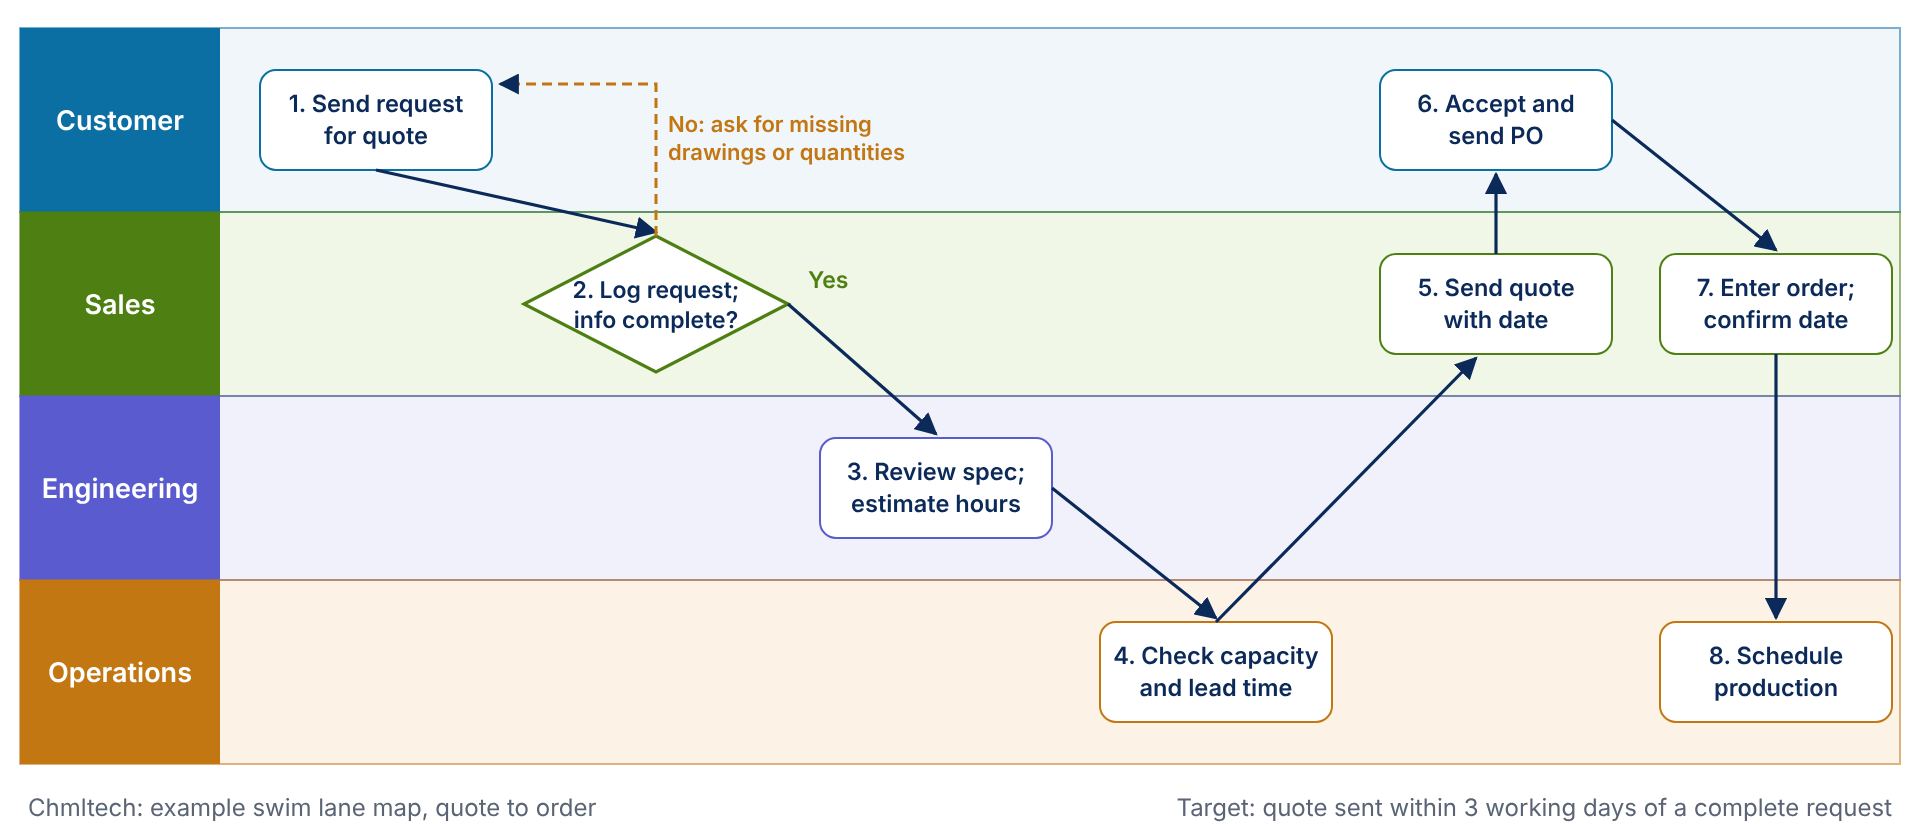
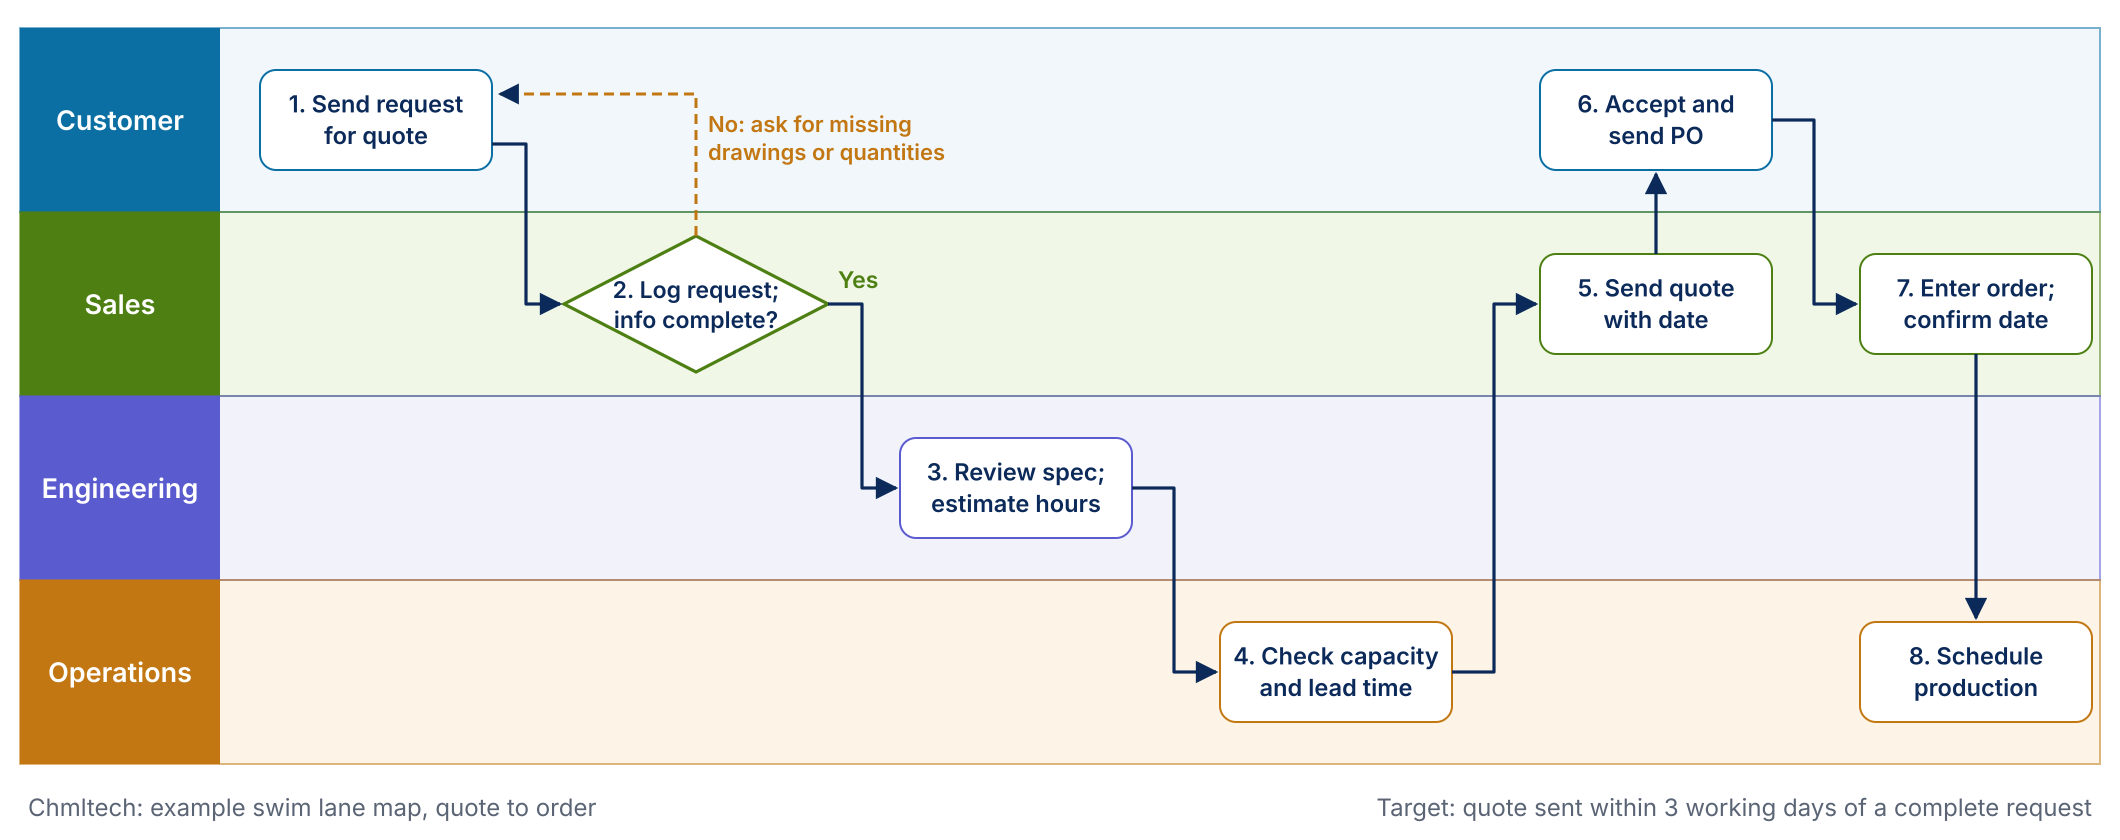
V5.24: swim lane connectors redrawn as right-angle lines (process documentation article)
Each hand-off leaves the right face of one step and enters the left face of the next.
PNG download redrawn to match.

Claude-Session: https://claude.ai/code/session_0128tT5EhY8XGTqWq2ggEHuj

diff --git a/post/essentials-of-effective-process-documentation.html b/post/essentials-of-effective-process-documentation.html
@@ -73,7 +73,7 @@
 <h2>Start with a swim lane map</h2>
 <p>A swim lane map shows each role in its own horizontal lane, so the hand-offs, where most delays and errors happen, are easy to see. The example below is a quote-to-order process in a small engineering or fabrication business.</p>
 <figure>
-<div style="overflow-x:auto"><svg role="img" aria-label="Swim lane map of a quote-to-order process with four lanes: customer, sales, engineering and operations. 1, the customer sends a request for quote. 2, sales logs it and checks whether the information is complete; if not, sales asks the customer for missing drawings or quantities. 3, engineering reviews the specification and estimates hours. 4, operations checks capacity and lead time. 5, sales sends the quote with a date. 6, the customer accepts and sends a purchase order. 7, sales enters the order and confirms the date. 8, operations schedules production. Target: quote sent within 3 working days of a complete request." viewBox="0 0 960 420" style="width:100%;height:auto;display:block;min-width:640px" xmlns="http://www.w3.org/2000/svg" font-family="Inter,system-ui,sans-serif" font-size="13"><defs><marker id="ah" viewBox="0 0 10 10" refX="9" refY="5" markerWidth="7" markerHeight="7" orient="auto-start-reverse"><path d="M0,0 L10,5 L0,10 z" fill="#0B2A5A"/></marker></defs><rect x="10" y="14" width="940" height="92" fill="#E6F0F7" opacity=".55" stroke="#0B6FA4"/><rect x="10" y="14" width="100" height="92" fill="#0B6FA4"/><text x="60.0" y="65.0" text-anchor="middle" font-size="13.5" fill="#fff" font-weight="600">Customer</text><rect x="10" y="106" width="940" height="92" fill="#E4F1D3" opacity=".55" stroke="#4D7F12"/><rect x="10" y="106" width="100" height="92" fill="#4D7F12"/><text x="60.0" y="157.0" text-anchor="middle" font-size="13.5" fill="#fff" font-weight="600">Sales</text><rect x="10" y="198" width="940" height="92" fill="#E7E7F8" opacity=".55" stroke="#5B5BD0"/><rect x="10" y="198" width="100" height="92" fill="#5B5BD0"/><text x="60.0" y="249.0" text-anchor="middle" font-size="13.5" fill="#fff" font-weight="600">Engineering</text><rect x="10" y="290" width="940" height="92" fill="#FBEBD3" opacity=".55" stroke="#C27712"/><rect x="10" y="290" width="100" height="92" fill="#C27712"/><text x="60.0" y="341.0" text-anchor="middle" font-size="13.5" fill="#fff" font-weight="600">Operations</text><rect x="130" y="35.0" width="116" height="50" rx="8" fill="#fff" stroke="#0B6FA4"/><text x="188.0" y="56.2" text-anchor="middle" font-size="11.8" fill="#0B2A5A" font-weight="600">1. Send request</text><text x="188.0" y="72.0" text-anchor="middle" font-size="11.8" fill="#0B2A5A" font-weight="600">for quote</text><polygon points="328.0,118.0 394.0,152.0 328.0,186.0 262.0,152.0" fill="#fff" stroke="#4D7F12" stroke-width="1.6"/><text x="328.0" y="149.0" text-anchor="middle" font-size="11.5" fill="#0B2A5A" font-weight="600">2. Log request;</text><text x="328.0" y="164.0" text-anchor="middle" font-size="11.5" fill="#0B2A5A" font-weight="600">info complete?</text><rect x="410" y="219.0" width="116" height="50" rx="8" fill="#fff" stroke="#5B5BD0"/><text x="468.0" y="240.2" text-anchor="middle" font-size="11.8" fill="#0B2A5A" font-weight="600">3. Review spec;</text><text x="468.0" y="256.0" text-anchor="middle" font-size="11.8" fill="#0B2A5A" font-weight="600">estimate hours</text><rect x="550" y="311.0" width="116" height="50" rx="8" fill="#fff" stroke="#C27712"/><text x="608.0" y="332.2" text-anchor="middle" font-size="11.8" fill="#0B2A5A" font-weight="600">4. Check capacity</text><text x="608.0" y="348.0" text-anchor="middle" font-size="11.8" fill="#0B2A5A" font-weight="600">and lead time</text><rect x="690" y="127.0" width="116" height="50" rx="8" fill="#fff" stroke="#4D7F12"/><text x="748.0" y="148.2" text-anchor="middle" font-size="11.8" fill="#0B2A5A" font-weight="600">5. Send quote</text><text x="748.0" y="164.0" text-anchor="middle" font-size="11.8" fill="#0B2A5A" font-weight="600">with date</text><rect x="690" y="35.0" width="116" height="50" rx="8" fill="#fff" stroke="#0B6FA4"/><text x="748.0" y="56.2" text-anchor="middle" font-size="11.8" fill="#0B2A5A" font-weight="600">6. Accept and</text><text x="748.0" y="72.0" text-anchor="middle" font-size="11.8" fill="#0B2A5A" font-weight="600">send PO</text><rect x="830" y="127.0" width="116" height="50" rx="8" fill="#fff" stroke="#4D7F12"/><text x="888.0" y="148.2" text-anchor="middle" font-size="11.8" fill="#0B2A5A" font-weight="600">7. Enter order;</text><text x="888.0" y="164.0" text-anchor="middle" font-size="11.8" fill="#0B2A5A" font-weight="600">confirm date</text><rect x="830" y="311.0" width="116" height="50" rx="8" fill="#fff" stroke="#C27712"/><text x="888.0" y="332.2" text-anchor="middle" font-size="11.8" fill="#0B2A5A" font-weight="600">8. Schedule</text><text x="888.0" y="348.0" text-anchor="middle" font-size="11.8" fill="#0B2A5A" font-weight="600">production</text><line x1="188.0" y1="85.0" x2="328.0" y2="116.0" stroke="#0B2A5A" stroke-width="1.6" marker-end="url(#ah)"/><line x1="394.0" y1="152.0" x2="468.0" y2="217.0" stroke="#0B2A5A" stroke-width="1.6" marker-end="url(#ah)"/><text x="404.0" y="144.0" text-anchor="start" font-size="11.5" fill="#4D7F12" font-weight="600">Yes</text><path d="M328.0,118.0 L328.0,42.0 L250,42.0" fill="none" stroke="#C27712" stroke-width="1.5" stroke-dasharray="5 3" marker-end="url(#ah)"/><text x="334.0" y="66.0" text-anchor="start" font-size="11" fill="#C27712" font-weight="600">No: ask for missing</text><text x="334.0" y="80.0" text-anchor="start" font-size="11" fill="#C27712" font-weight="600">drawings or quantities</text><line x1="526" y1="244.0" x2="608.0" y2="309.0" stroke="#0B2A5A" stroke-width="1.6" marker-end="url(#ah)"/><line x1="608.0" y1="311.0" x2="738.0" y2="179.0" stroke="#0B2A5A" stroke-width="1.6" marker-end="url(#ah)"/><line x1="748.0" y1="127.0" x2="748.0" y2="87.0" stroke="#0B2A5A" stroke-width="1.6" marker-end="url(#ah)"/><line x1="806" y1="60.0" x2="888.0" y2="125.0" stroke="#0B2A5A" stroke-width="1.6" marker-end="url(#ah)"/><line x1="888.0" y1="177.0" x2="888.0" y2="309.0" stroke="#0B2A5A" stroke-width="1.6" marker-end="url(#ah)"/><text x="946" y="408" text-anchor="end" font-size="12" fill="#5A6475">Target: quote sent within 3 working days of a complete request</text></svg></div>
+<div style="overflow-x:auto"><svg role="img" aria-label="Swim lane map of a quote-to-order process with four lanes: customer, sales, engineering and operations. 1, the customer sends a request for quote. 2, sales logs it and checks whether the information is complete; if not, sales asks the customer for missing drawings or quantities. 3, engineering reviews the specification and estimates hours. 4, operations checks capacity and lead time. 5, sales sends the quote with a date. 6, the customer accepts and sends a purchase order. 7, sales enters the order and confirms the date. 8, operations schedules production. Target: quote sent within 3 working days of a complete request." viewBox="0 0 1060 420" style="width:100%;height:auto;display:block;min-width:640px" xmlns="http://www.w3.org/2000/svg" font-family="Inter,system-ui,sans-serif" font-size="13"><defs><marker id="ah" viewBox="0 0 10 10" refX="9" refY="5" markerWidth="7" markerHeight="7" orient="auto-start-reverse"><path d="M0,0 L10,5 L0,10 z" fill="#0B2A5A"/></marker></defs><rect x="10" y="14" width="1040" height="92" fill="#E6F0F7" opacity=".55" stroke="#0B6FA4"/><rect x="10" y="14" width="100" height="92" fill="#0B6FA4"/><text x="60.0" y="65.0" text-anchor="middle" font-size="13.5" fill="#fff" font-weight="600">Customer</text><rect x="10" y="106" width="1040" height="92" fill="#E4F1D3" opacity=".55" stroke="#4D7F12"/><rect x="10" y="106" width="100" height="92" fill="#4D7F12"/><text x="60.0" y="157.0" text-anchor="middle" font-size="13.5" fill="#fff" font-weight="600">Sales</text><rect x="10" y="198" width="1040" height="92" fill="#E7E7F8" opacity=".55" stroke="#5B5BD0"/><rect x="10" y="198" width="100" height="92" fill="#5B5BD0"/><text x="60.0" y="249.0" text-anchor="middle" font-size="13.5" fill="#fff" font-weight="600">Engineering</text><rect x="10" y="290" width="1040" height="92" fill="#FBEBD3" opacity=".55" stroke="#C27712"/><rect x="10" y="290" width="100" height="92" fill="#C27712"/><text x="60.0" y="341.0" text-anchor="middle" font-size="13.5" fill="#fff" font-weight="600">Operations</text><rect x="130" y="35.0" width="116" height="50" rx="8" fill="#fff" stroke="#0B6FA4"/><text x="188.0" y="56.2" text-anchor="middle" font-size="11.8" fill="#0B2A5A" font-weight="600">1. Send request</text><text x="188.0" y="72.0" text-anchor="middle" font-size="11.8" fill="#0B2A5A" font-weight="600">for quote</text><polygon points="348.0,118.0 414.0,152.0 348.0,186.0 282.0,152.0" fill="#fff" stroke="#4D7F12" stroke-width="1.6"/><text x="348.0" y="149.0" text-anchor="middle" font-size="11.5" fill="#0B2A5A" font-weight="600">2. Log request;</text><text x="348.0" y="164.0" text-anchor="middle" font-size="11.5" fill="#0B2A5A" font-weight="600">info complete?</text><rect x="450" y="219.0" width="116" height="50" rx="8" fill="#fff" stroke="#5B5BD0"/><text x="508.0" y="240.2" text-anchor="middle" font-size="11.8" fill="#0B2A5A" font-weight="600">3. Review spec;</text><text x="508.0" y="256.0" text-anchor="middle" font-size="11.8" fill="#0B2A5A" font-weight="600">estimate hours</text><rect x="610" y="311.0" width="116" height="50" rx="8" fill="#fff" stroke="#C27712"/><text x="668.0" y="332.2" text-anchor="middle" font-size="11.8" fill="#0B2A5A" font-weight="600">4. Check capacity</text><text x="668.0" y="348.0" text-anchor="middle" font-size="11.8" fill="#0B2A5A" font-weight="600">and lead time</text><rect x="770" y="127.0" width="116" height="50" rx="8" fill="#fff" stroke="#4D7F12"/><text x="828.0" y="148.2" text-anchor="middle" font-size="11.8" fill="#0B2A5A" font-weight="600">5. Send quote</text><text x="828.0" y="164.0" text-anchor="middle" font-size="11.8" fill="#0B2A5A" font-weight="600">with date</text><rect x="770" y="35.0" width="116" height="50" rx="8" fill="#fff" stroke="#0B6FA4"/><text x="828.0" y="56.2" text-anchor="middle" font-size="11.8" fill="#0B2A5A" font-weight="600">6. Accept and</text><text x="828.0" y="72.0" text-anchor="middle" font-size="11.8" fill="#0B2A5A" font-weight="600">send PO</text><rect x="930" y="127.0" width="116" height="50" rx="8" fill="#fff" stroke="#4D7F12"/><text x="988.0" y="148.2" text-anchor="middle" font-size="11.8" fill="#0B2A5A" font-weight="600">7. Enter order;</text><text x="988.0" y="164.0" text-anchor="middle" font-size="11.8" fill="#0B2A5A" font-weight="600">confirm date</text><rect x="930" y="311.0" width="116" height="50" rx="8" fill="#fff" stroke="#C27712"/><text x="988.0" y="332.2" text-anchor="middle" font-size="11.8" fill="#0B2A5A" font-weight="600">8. Schedule</text><text x="988.0" y="348.0" text-anchor="middle" font-size="11.8" fill="#0B2A5A" font-weight="600">production</text><path d="M246,72.0 H263.0 V152.0 H280.0" fill="none" stroke="#0B2A5A" stroke-width="1.6" stroke-linejoin="round" marker-end="url(#ah)"/><path d="M414.0,152.0 H431.0 V244.0 H448" fill="none" stroke="#0B2A5A" stroke-width="1.6" stroke-linejoin="round" marker-end="url(#ah)"/><text x="419.0" y="144.0" text-anchor="start" font-size="11.5" fill="#4D7F12" font-weight="600">Yes</text><path d="M348.0,118.0 L348.0,47.0 L250,47.0" fill="none" stroke="#C27712" stroke-width="1.5" stroke-dasharray="5 3" marker-end="url(#ah)"/><text x="354.0" y="66.0" text-anchor="start" font-size="11" fill="#C27712" font-weight="600">No: ask for missing</text><text x="354.0" y="80.0" text-anchor="start" font-size="11" fill="#C27712" font-weight="600">drawings or quantities</text><path d="M566,244.0 H587.0 V336.0 H608" fill="none" stroke="#0B2A5A" stroke-width="1.6" stroke-linejoin="round" marker-end="url(#ah)"/><path d="M726,336.0 H747.0 V152.0 H768" fill="none" stroke="#0B2A5A" stroke-width="1.6" stroke-linejoin="round" marker-end="url(#ah)"/><line x1="828.0" y1="127.0" x2="828.0" y2="87.0" stroke="#0B2A5A" stroke-width="1.6" marker-end="url(#ah)"/><path d="M886,60.0 H907.0 V152.0 H928" fill="none" stroke="#0B2A5A" stroke-width="1.6" stroke-linejoin="round" marker-end="url(#ah)"/><line x1="988.0" y1="177.0" x2="988.0" y2="309.0" stroke="#0B2A5A" stroke-width="1.6" marker-end="url(#ah)"/><text x="1046" y="408" text-anchor="end" font-size="12" fill="#5A6475">Target: quote sent within 3 working days of a complete request</text></svg></div>
 <figcaption>Figure 1. A swim lane map of a quote-to-order process. Each lane is a role; each arrow that crosses a lane is a hand-off.</figcaption>
 </figure>
 <p><a href="../assets/downloads/Chmltech_Swim_Lane_Quote_to_Order.png" download>Download this swim lane example as a PNG image</a> to use as a model for your own map.</p>

diff --git a/content/articles/v473b_articles.py b/content/articles/v473b_articles.py
@@ -303,8 +303,20 @@ LANES = ["Customer", "Sales", "Engineering", "Operations"]
 LANE_C = [(BLUE, PALE), (GREEND, GREENF), (PURPLE, "#E7E7F8"), (ORANGE, ORANGEF)]
 
 
+def elbow(x1, y1, x2, y2, col=NAVY, w=1.6):
+    """Right-angle connector: leaves the right face of one step, turns halfway across the gap, and enters the
+    left face of the next step."""
+    xm = (x1 + x2) / 2
+    return (f'<path d="M{x1},{y1} H{xm} V{y2} H{x2}" fill="none" stroke="{col}" stroke-width="{w}" '
+            f'stroke-linejoin="round" marker-end="url(#ah)"/>')
+
+
 def swim_svg(standalone=False):
-    W, LH, X0 = 960, 92, 120
+    # V5.24: columns are 160 apart (was 140) so each gap has room for a right-angle connector
+    LH, X0, STEP = 92, 120, 160
+    B = 116; H = 50
+    col = lambda i: 130 + i * STEP                  # left edge of column i
+    W = col(5) + B + 14
     s = DEFS
     if standalone: s += f'<rect width="{W}" height="{LH * 4 + 60}" fill="#fff"/>'
     for i, (n, (c, f)) in enumerate(zip(LANES, LANE_C)):
@@ -312,30 +324,33 @@ def swim_svg(standalone=False):
         s += f'<rect x="10" y="{y}" width="{W - 20}" height="{LH}" fill="{f}" opacity=".55" stroke="{c}"/>'
         s += f'<rect x="10" y="{y}" width="{X0 - 20}" height="{LH}" fill="{c}"/>' + txt(10 + (X0 - 20) / 2, y + LH / 2 + 5, n, "middle", "#fff", 13.5, True)
     cy = lambda lane: 14 + lane * LH + LH / 2
-    B = 116; H = 50
-    nodes = {1: (0, 130, ["1. Send request", "for quote"]), 2: (1, 270, ["2. Log request;", "info complete?"]),
-             3: (2, 410, ["3. Review spec;", "estimate hours"]), 4: (3, 550, ["4. Check capacity", "and lead time"]),
-             5: (1, 690, ["5. Send quote", "with date"]), 6: (0, 690, ["6. Accept and", "send PO"]),
-             7: (1, 830, ["7. Enter order;", "confirm date"]), 8: (3, 830, ["8. Schedule", "production"])}
+    nodes = {1: (0, col(0), ["1. Send request", "for quote"]), 2: (1, col(1), ["2. Log request;", "info complete?"]),
+             3: (2, col(2), ["3. Review spec;", "estimate hours"]), 4: (3, col(3), ["4. Check capacity", "and lead time"]),
+             5: (1, col(4), ["5. Send quote", "with date"]), 6: (0, col(4), ["6. Accept and", "send PO"]),
+             7: (1, col(5), ["7. Enter order;", "confirm date"]), 8: (3, col(5), ["8. Schedule", "production"])}
+    DX, DY = 66, 34                                 # decision diamond half-width and half-height
     for k, (lane, x, lines) in nodes.items():
         c = LANE_C[lane][0]
         if k == 2:   # decision
             mx, my = x + B / 2, cy(lane)
-            s += f'<polygon points="{mx},{my - 34} {mx + 66},{my} {mx},{my + 34} {mx - 66},{my}" fill="#fff" stroke="{c}" stroke-width="1.6"/>'
+            s += f'<polygon points="{mx},{my - DY} {mx + DX},{my} {mx},{my + DY} {mx - DX},{my}" fill="#fff" stroke="{c}" stroke-width="1.6"/>'
             s += txt(mx, my - 3, "2. Log request;", "middle", NAVY, 11.5, True) + txt(mx, my + 12, "info complete?", "middle", NAVY, 11.5, True)
         else:
             s += box(x, cy(lane) - H / 2, B, H, lines, fill="#fff", stroke=c, fs=11.8)
-    L = lambda a, b, c, d: arrow(a, b, c, d)
-    s += L(130 + B / 2, cy(0) + H / 2, 270 + B / 2, cy(1) - 36)                          # 1 → 2
-    s += L(270 + B / 2 + 66, cy(1), 410 + B / 2, cy(2) - H / 2 - 2)                      # 2 yes → 3
-    s += txt(270 + B / 2 + 76, cy(1) - 8, "Yes", "start", GREEND, 11.5, True)
-    s += f'<path d="M{270 + B / 2},{cy(1) - 34} L{270 + B / 2},{cy(0) - 18} L{130 + B + 4},{cy(0) - 18}" fill="none" stroke="{ORANGE}" stroke-width="1.5" stroke-dasharray="5 3" marker-end="url(#ah)"/>'
-    s += txt(270 + B / 2 + 6, cy(0) + 6, "No: ask for missing", "start", ORANGE, 11, True) + txt(270 + B / 2 + 6, cy(0) + 20, "drawings or quantities", "start", ORANGE, 11, True)
-    s += L(410 + B, cy(2), 550 + B / 2, cy(3) - H / 2 - 2)                                # 3 → 4
-    s += L(550 + B / 2, cy(3) - H / 2, 690 + B / 2 - 10, cy(1) + H / 2 + 2)                # 4 → 5
-    s += L(690 + B / 2, cy(1) - H / 2, 690 + B / 2, cy(0) + H / 2 + 2)                     # 5 → 6
-    s += L(690 + B, cy(0), 830 + B / 2, cy(1) - H / 2 - 2)                                 # 6 → 7
-    s += L(830 + B / 2, cy(1) + H / 2, 830 + B / 2, cy(3) - H / 2 - 2)                     # 7 → 8
+    right = lambda k: nodes[k][1] + B               # x of a box's right face
+    left = lambda k: nodes[k][1] - 2                # x just short of a box's left face (arrow tip)
+    mx2 = col(1) + B / 2                            # centre of the decision
+    # Every hand-off leaves a right face and enters a left face. Steps 5 to 6 and 7 to 8 sit in one column, so they stay vertical.
+    s += elbow(right(1), cy(0) + 12, mx2 - DX - 2, cy(1))                                  # 1 → 2
+    s += elbow(mx2 + DX, cy(1), left(3), cy(2))                                            # 2 yes → 3
+    s += txt(mx2 + DX + 5, cy(1) - 8, "Yes", "start", GREEND, 11.5, True)
+    s += f'<path d="M{mx2},{cy(1) - DY} L{mx2},{cy(0) - 13} L{right(1) + 4},{cy(0) - 13}" fill="none" stroke="{ORANGE}" stroke-width="1.5" stroke-dasharray="5 3" marker-end="url(#ah)"/>'
+    s += txt(mx2 + 6, cy(0) + 6, "No: ask for missing", "start", ORANGE, 11, True) + txt(mx2 + 6, cy(0) + 20, "drawings or quantities", "start", ORANGE, 11, True)
+    s += elbow(right(3), cy(2), left(4), cy(3))                                            # 3 → 4
+    s += elbow(right(4), cy(3), left(5), cy(1))                                            # 4 → 5
+    s += arrow(col(4) + B / 2, cy(1) - H / 2, col(4) + B / 2, cy(0) + H / 2 + 2)           # 5 → 6
+    s += elbow(right(6), cy(0), left(7), cy(1))                                            # 6 → 7
+    s += arrow(col(5) + B / 2, cy(1) + H / 2, col(5) + B / 2, cy(3) - H / 2 - 2)           # 7 → 8
     s += txt(W - 14, LH * 4 + 40, "Target: quote sent within 3 working days of a complete request", "end", MUTED, 12)
     if standalone:
         s += txt(14, LH * 4 + 40, "Chmltech: example swim lane map, quote to order", "start", MUTED, 12)

diff --git a/CHANGELOG.md b/CHANGELOG.md
@@ -1,5 +1,10 @@
 # Changelog
 
+## V5.24 — 2026-11-14
+- **Process documentation article, Figure 1 (swim lane): connectors redrawn as right-angle lines.** Each hand-off now leaves the right face of one step and enters the left face of the next (1 to 2, 2 to 3, 3 to 4, 4 to 5, 6 to 7), in place of the diagonal lines. Steps 5 to 6 and 7 to 8 sit in the same column and stay vertical. Columns are 160 apart (was 140) to make room, so the drawing is 1060 wide (was 960).
+- The PNG download `assets/downloads/Chmltech_Swim_Lane_Quote_to_Order.png` is redrawn to match.
+- Source: `elbow()` and `swim_svg()` in `content/articles/v473b_articles.py`.
+
 ## V5.23 — 2026-11-14
 - **"Drawn by the author" removed from every journal paper** (30 figure source lines on 21 papers, pages and PDFs). Lines that only said the author drew the figure are gone; lines that credit other work keep the credit, reworded (for example "After Willison [7].", "Data from Statistics Canada [4].", "Source: the ranges in [7].").
 - **Future papers:** the renderer removes the phrase automatically (`clean_source` in `content/gen/journal_pages.py`), and the paper spec and figure guide now say to leave the source empty for the author's own figures. The build scripts and figure placement scripts were updated too, so rebuilding a paper does not bring the phrase back.

diff --git a/README.md b/README.md
@@ -1,7 +1,7 @@
 # Chmltech Ltd. website
 
 A static website for Chmltech Ltd. (AI, Digital Transformation & Operational Excellence for Canadian SMEs).
-Version: **V5.23** (see `CHANGELOG.md`).
+Version: **V5.24** (see `CHANGELOG.md`).
 
 Plain HTML, CSS and JavaScript. It has no build step and no dependencies, and runs on any static host.
 
